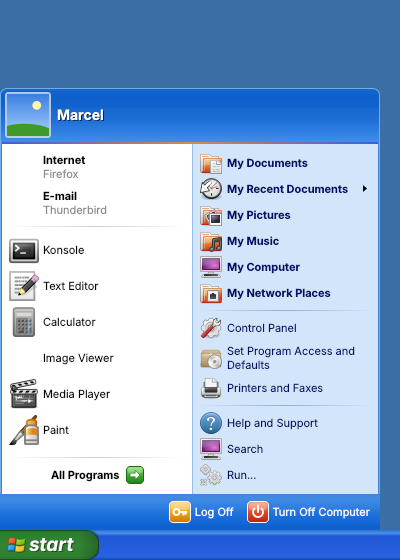
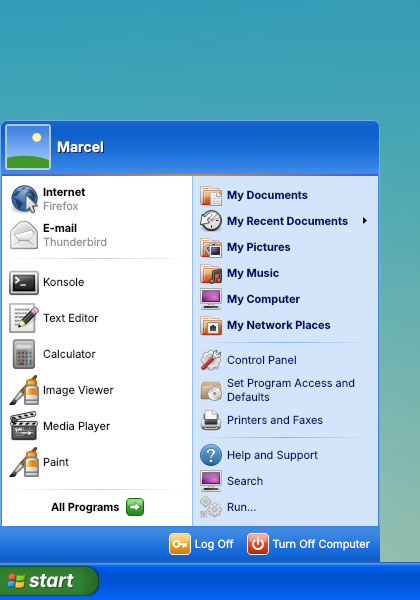
Reshoot previews on the Exposé theme
Render the README screenshots on Exposé's wallpaper and 38 px taskbar
(taken from the theme's panel-background.svg) instead of a flat backdrop.

Claude-Session: https://claude.ai/code/session_01PfMQm1A3gEqM17TJU2qVLD

diff --git a/README.md b/README.md
@@ -9,8 +9,13 @@ where the stock Kickoff/Kicker menus look out of place.
 | --- | --- |
 | ![Start menu](docs/preview-menu.png) | ![All Programs](docs/preview-all-programs.png) |
 
-*Previews were rendered offscreen with placeholder data, a generic icon theme
-and substitute fonts. With Tahoma and an XP icon theme it looks like the real thing.*
+*Shown on the [Exposé](https://www.opencode.net/phob1an/expose) theme by phob1an
+(its wallpaper and 38 px taskbar, GPL-2.0+). Rendered offscreen with placeholder
+programs; the icons come from a stand-in icon theme instead of Exposé's DamaDamas,
+and Tahoma was replaced by a similar font.*
+
+Exposé's selection colour (`#326AC4`) matches the Luna highlight the menu uses,
+so the menu fits the theme without changes.
 
 ## Features
 
